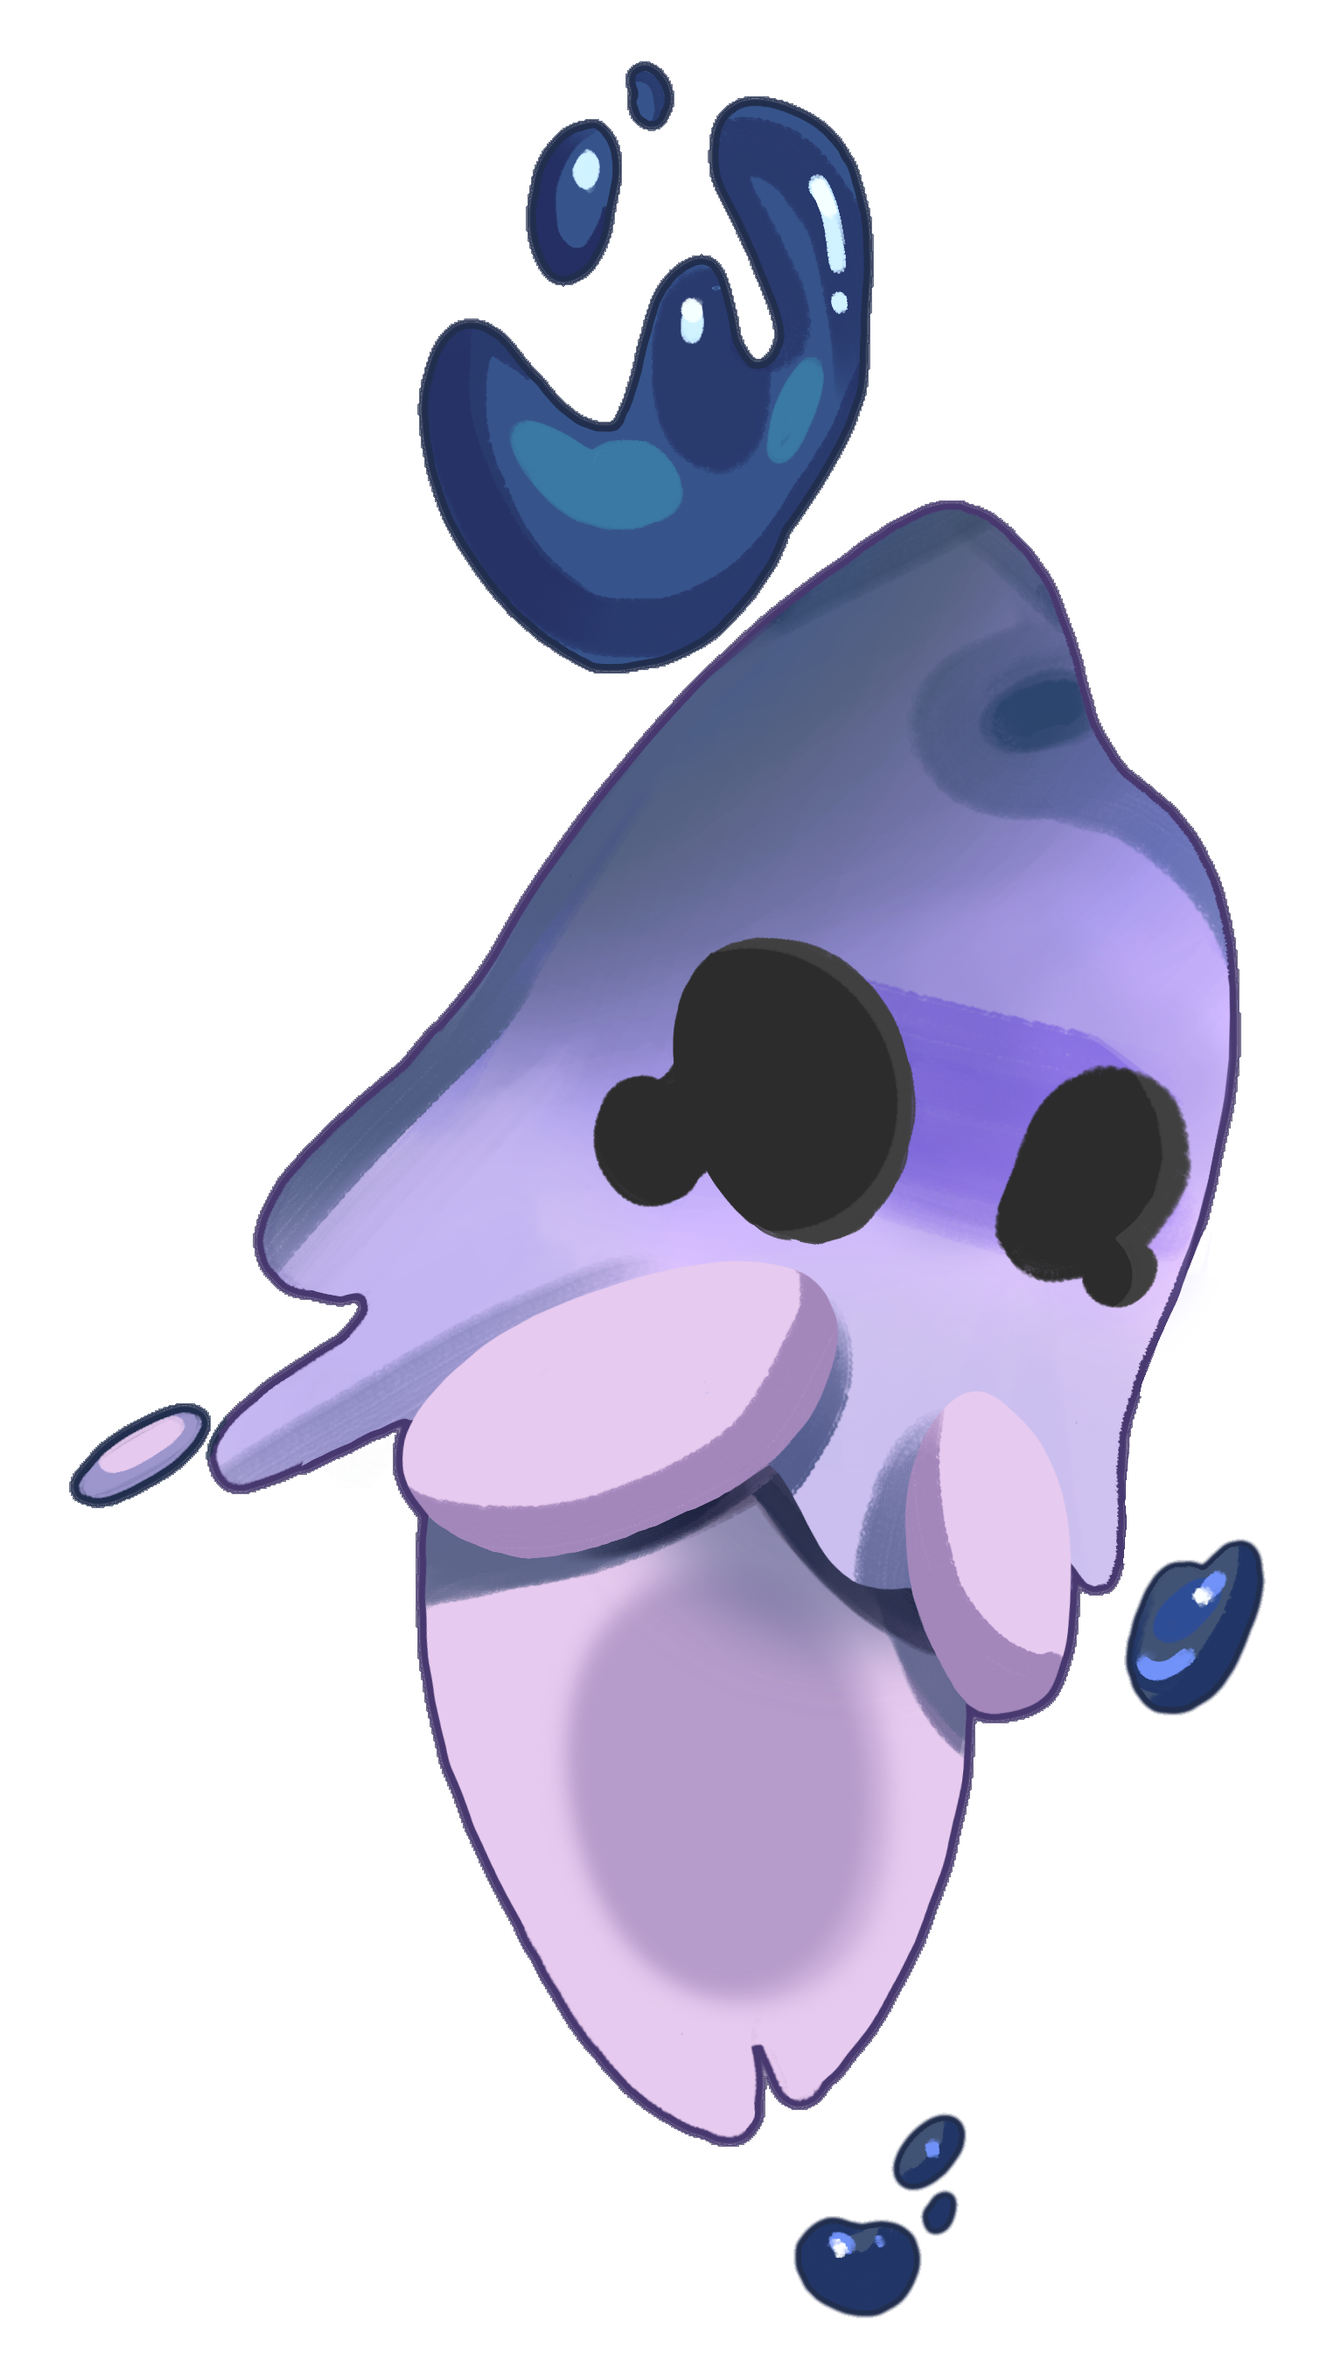
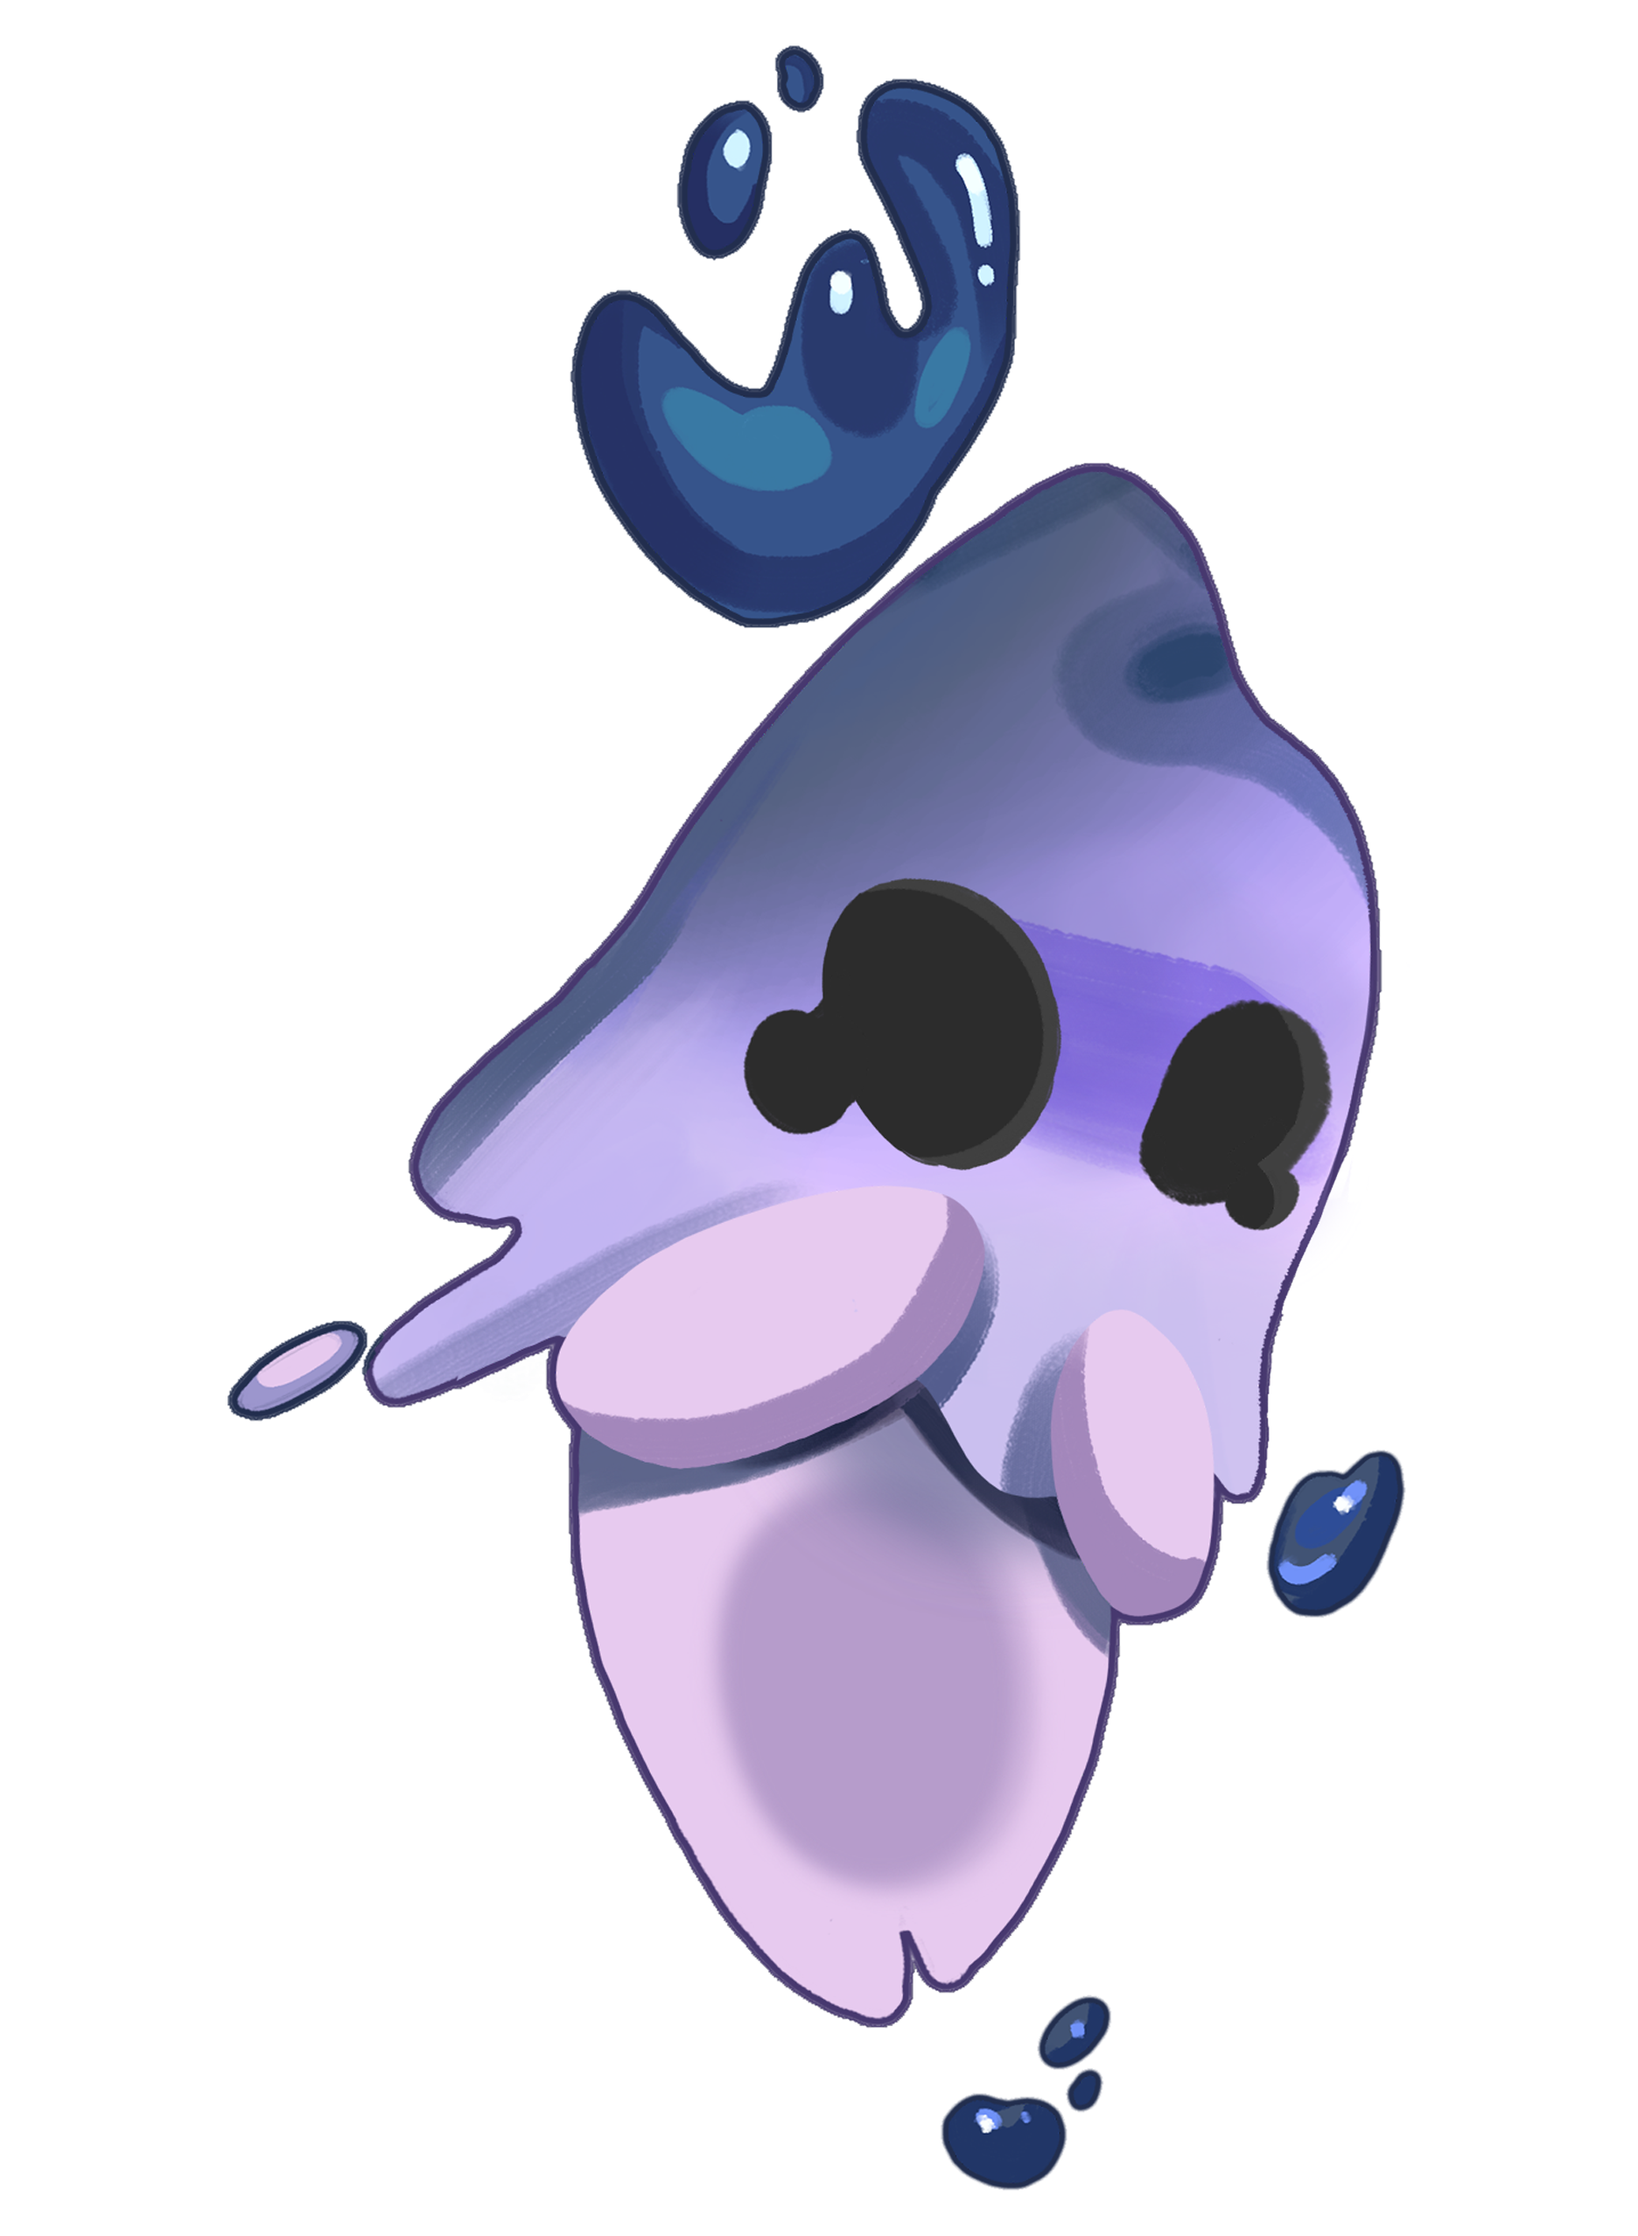
[feat] item 이미지 수정 및 히트박스 추가

diff --git a/src/components/Item.tsx b/src/components/Item.tsx
@@ -1,6 +1,7 @@
 import { Sprite, useTick } from "@pixi/react";
 import { useState, useRef } from "react";
 import useGameStore from "../store/useGameStore";
+import { checkCollision } from "../utils/collision";
 
 interface ItemProps {
   type: "candle" | "tomb";
@@ -14,7 +15,6 @@ export default function Item({ type, y }: ItemProps) {
   const speed = 8;
   const ref = useRef<any>(null);
 
-  // 실제 시각적 크기
   const width = type === "candle" ? 150 : 350;
   const height = type === "candle" ? 170 : 370;
 
@@ -24,27 +24,18 @@ export default function Item({ type, y }: ItemProps) {
     setX((prev) => {
       const newX = prev - speed;
 
-      // 고스트 위치 기준값 (Player 컴포넌트의 x=300, width=300, height=400 기준)
-      const ghostX = 300;
-      const ghostWidth = 300;
-      const ghostHeight = 400;
-
-      // AABB(사각형 충돌) 검사
-      const ghostLeft = ghostX - ghostWidth / 2;
-      const ghostRight = ghostX + ghostWidth / 2;
-      const ghostTop = ghostY - ghostHeight / 2;
-      const ghostBottom = ghostY + ghostHeight / 2;
-
-      const itemLeft = newX - width / 2;
-      const itemRight = newX + width / 2;
-      const itemTop = y - height / 2;
-      const itemBottom = y + height / 2;
-
-      const isColliding =
-        ghostRight > itemLeft &&
-        ghostLeft < itemRight &&
-        ghostBottom > itemTop &&
-        ghostTop < itemBottom;
+      const isColliding = checkCollision(
+        300,        // ghostX (고정)
+        ghostY,     // ghostY (실시간)
+        300,        // ghostWidth
+        400,        // ghostHeight
+        newX,       // itemX
+        y,          // itemY
+        width,
+        height,
+        0.7,        // ghost hitbox scale
+        0.6         // item hitbox scale
+      );
 
       if (isColliding) {
         if (type === "candle") {

diff --git a/src/utils/collision.ts b/src/utils/collision.ts
@@ -1,0 +1,48 @@
+
+/**
+ * 간단한 축 정렬 사각형 충돌(AABB) 판정 유틸
+ * @param ghostX 유령 중심 X좌표
+ * @param ghostY 유령 중심 Y좌표
+ * @param ghostWidth 유령의 실제 표시 폭
+ * @param ghostHeight 유령의 실제 표시 높이
+ * @param itemX 아이템 중심 X좌표
+ * @param itemY 아이템 중심 Y좌표
+ * @param itemWidth 아이템 폭
+ * @param itemHeight 아이템 높이
+ * @param ghostScale 유령 히트박스 스케일 (0~1)
+ * @param itemScale 아이템 히트박스 스케일 (0~1)
+ * @returns 충돌 여부 (boolean)
+ */
+export function checkCollision(
+  ghostX: number,
+  ghostY: number,
+  ghostWidth: number,
+  ghostHeight: number,
+  itemX: number,
+  itemY: number,
+  itemWidth: number,
+  itemHeight: number,
+  ghostScale: number = 0.7,
+  itemScale: number = 0.6
+): boolean {
+  const g = {
+    left: ghostX - (ghostWidth * ghostScale) / 2,
+    right: ghostX + (ghostWidth * ghostScale) / 2,
+    top: ghostY - (ghostHeight * ghostScale) / 2,
+    bottom: ghostY + (ghostHeight * ghostScale) / 2,
+  };
+
+  const i = {
+    left: itemX - (itemWidth * itemScale) / 2,
+    right: itemX + (itemWidth * itemScale) / 2,
+    top: itemY - (itemHeight * itemScale) / 2,
+    bottom: itemY + (itemHeight * itemScale) / 2,
+  };
+
+  return (
+    g.right > i.left &&
+    g.left < i.right &&
+    g.bottom > i.top &&
+    g.top < i.bottom
+  );
+}

diff --git a/src/App.tsx b/src/App.tsx
@@ -33,8 +33,8 @@ export default function App() {
     return () => window.removeEventListener("resize", handleResize);
   }, []);
 
-  // ✅ 버튼 크기도 Stage 스케일에 맞춰 비례하도록 계산
-  const buttonScale = Math.max(0.6, scale); // 너무 작아지지 않게 하한선 설정 (0.6배 이하로 안 줄어듦)
+  
+  const buttonScale = Math.max(0.6, scale); 
 
   return (
     <div

diff --git a/src/components/Player.tsx b/src/components/Player.tsx
@@ -172,8 +172,8 @@ export default function Player() {
       textures={textures}
       x={300}
       y={y}
-      width={300}
-      height={400}
+      width={230}
+      height={330}
       anchor={0.5}
       isPlaying={true}
       animationSpeed={0.1}
